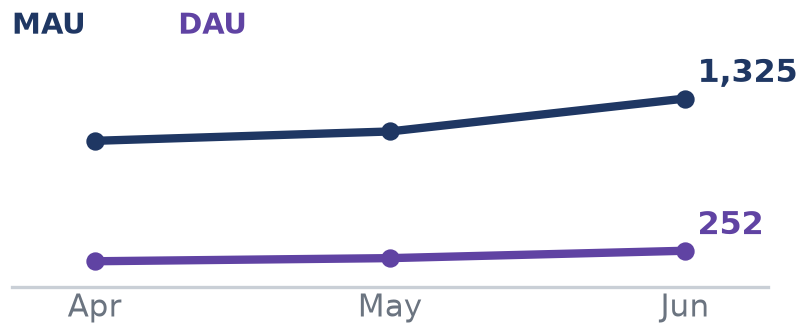
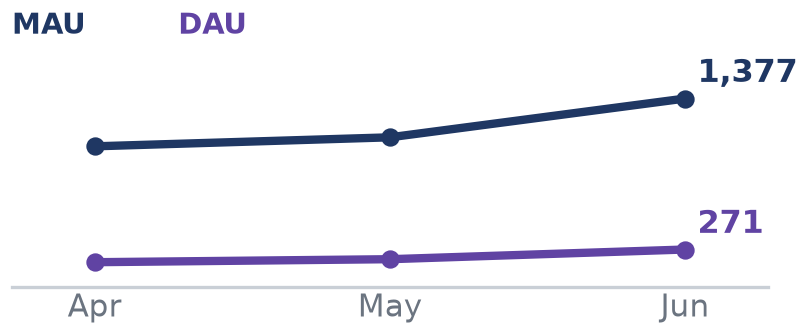
Update Jun MAU 1,377 and DAU 271 in FO App trend + bullets
Claude-Session: https://claude.ai/code/session_01HTHNkMyy3hCJ7Wqf5x3kDZ

diff --git a/board_review_q2_2026/build_slide.py b/board_review_q2_2026/build_slide.py
@@ -103,8 +103,8 @@ rows=[
  dict(name="Drive FO App to 2,000 DAU", goal="Better load experience & payment visibility",
       chart="row1_app",
       delivery=[("Shipped better load experience & payment visibility",False),
-                ("DAU 178 → 252 (+42%); crossed 250/day",True),
-                ("MAU 1,027 → 1,325 (+29%); Installs → 1,935",False),
+                ("DAU 178 → 271 (+52%); crossed 270/day",True),
+                ("MAU 1,027 → 1,377 (+34%); Installs → 1,935",False),
                 ("Stickiness 17.3% → 19.0%",False)],
       focus=[("Drive toward 2,000 DAU",False),
              ("Lift WAU → DAU daily habit & retention",False),

diff --git a/board_review_q2_2026/make_charts.py b/board_review_q2_2026/make_charts.py
@@ -52,8 +52,8 @@ def save(fig, name):
     plt.close(fig)
 
 # ---------- 1. FO App adoption: MAU / DAU (Apr-Jun) ----------
-MAU = [1027, 1093, 1325]
-DAU = [178, 200, 252]
+MAU = [1027, 1093, 1377]
+DAU = [178, 200, 271]
 fig, ax = base_ax()
 ax.plot(x, MAU, color=NAVY,   lw=2.0, marker="o", ms=3.4)
 ax.plot(x, DAU, color=PURPLE, lw=2.0, marker="o", ms=3.4)
